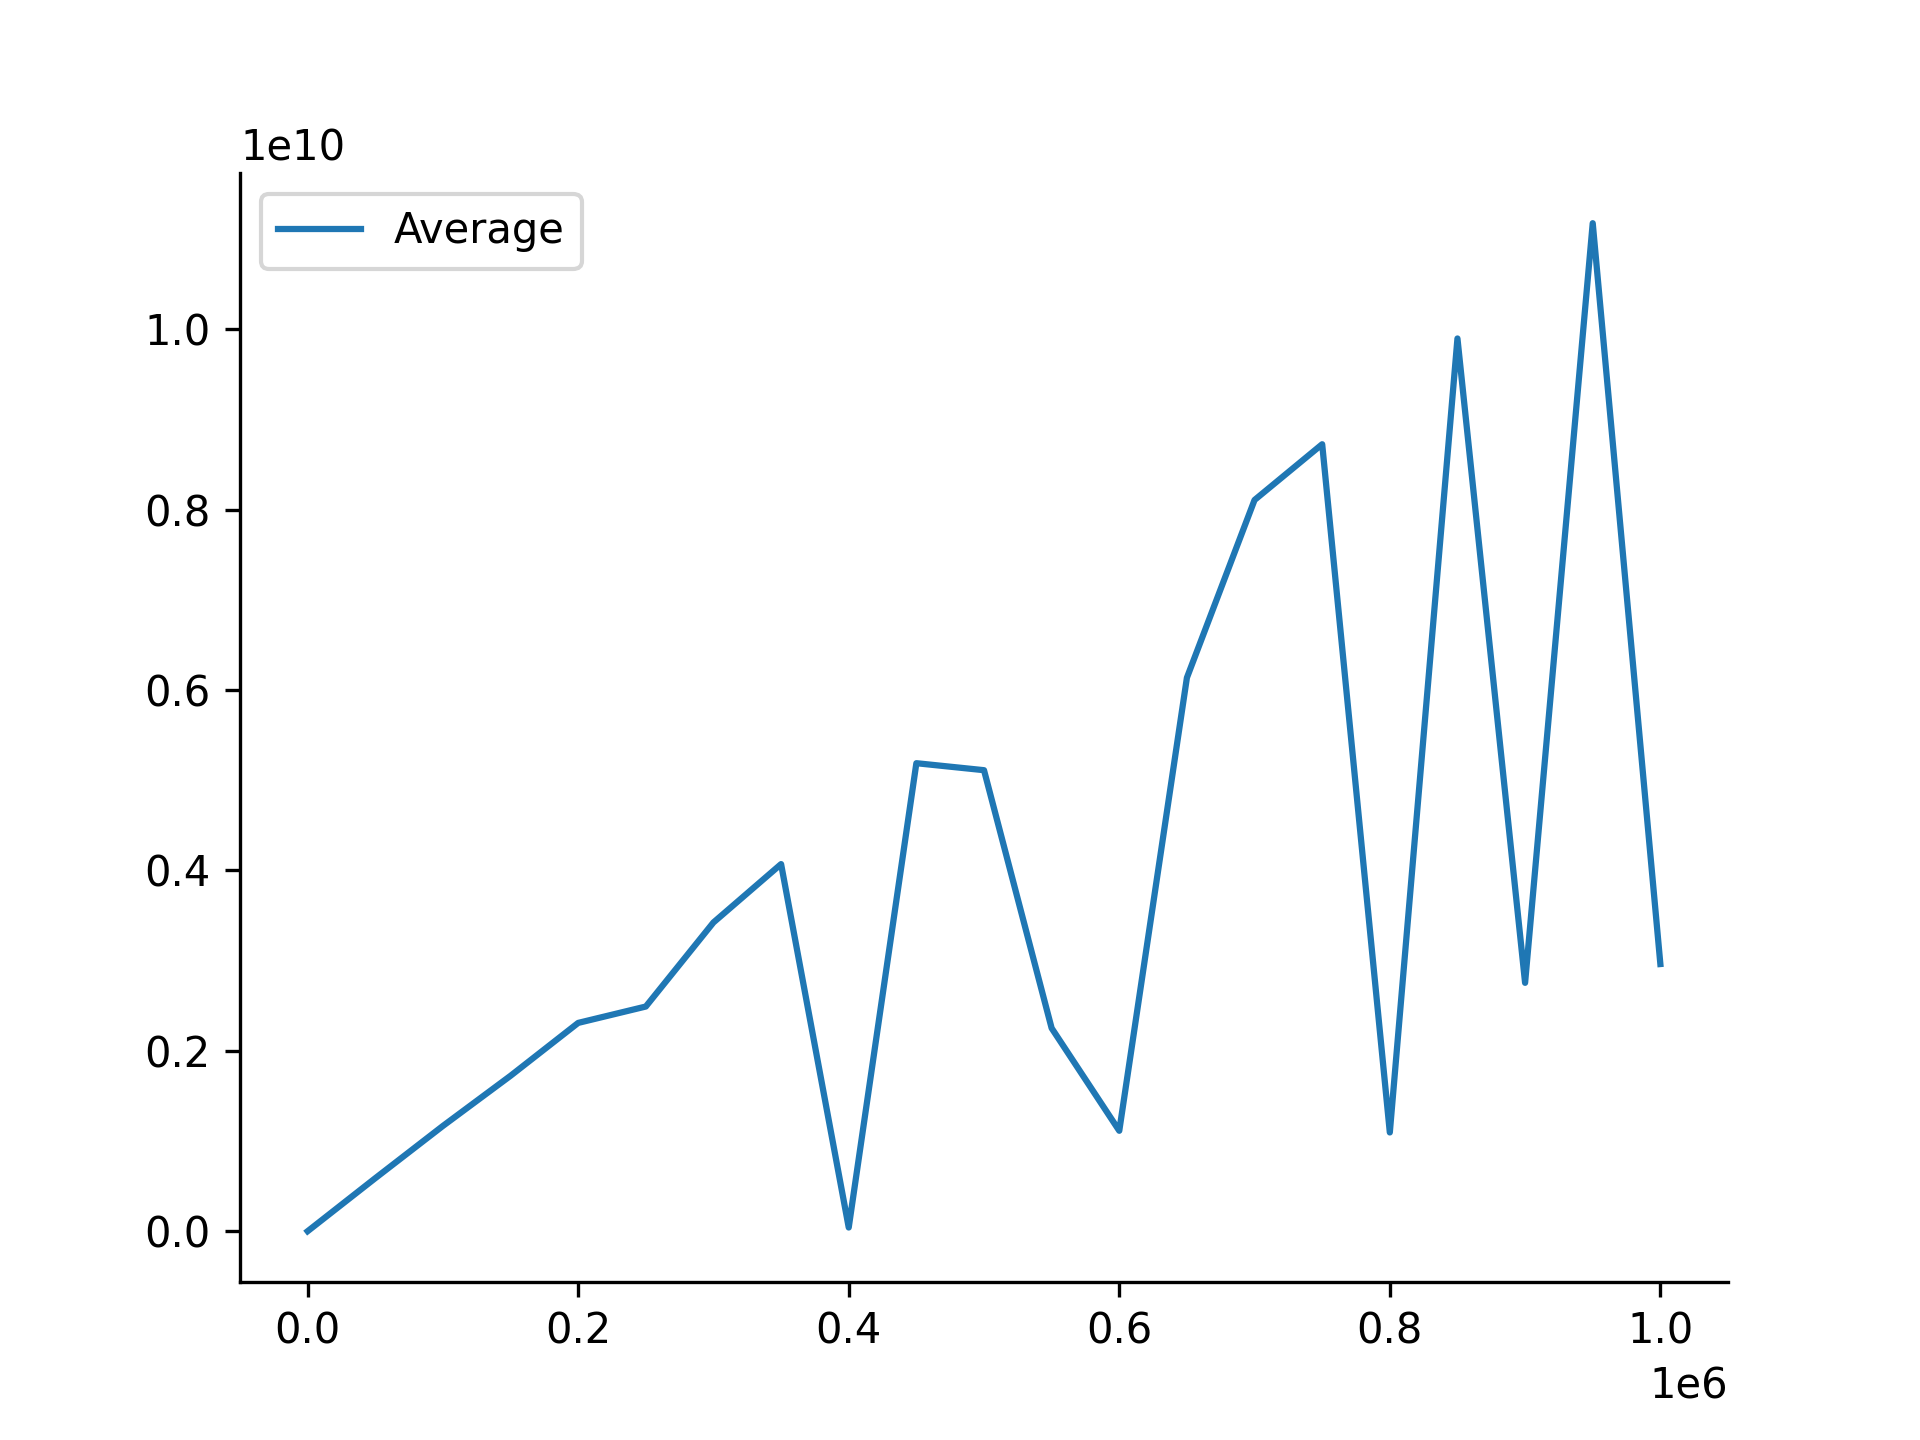
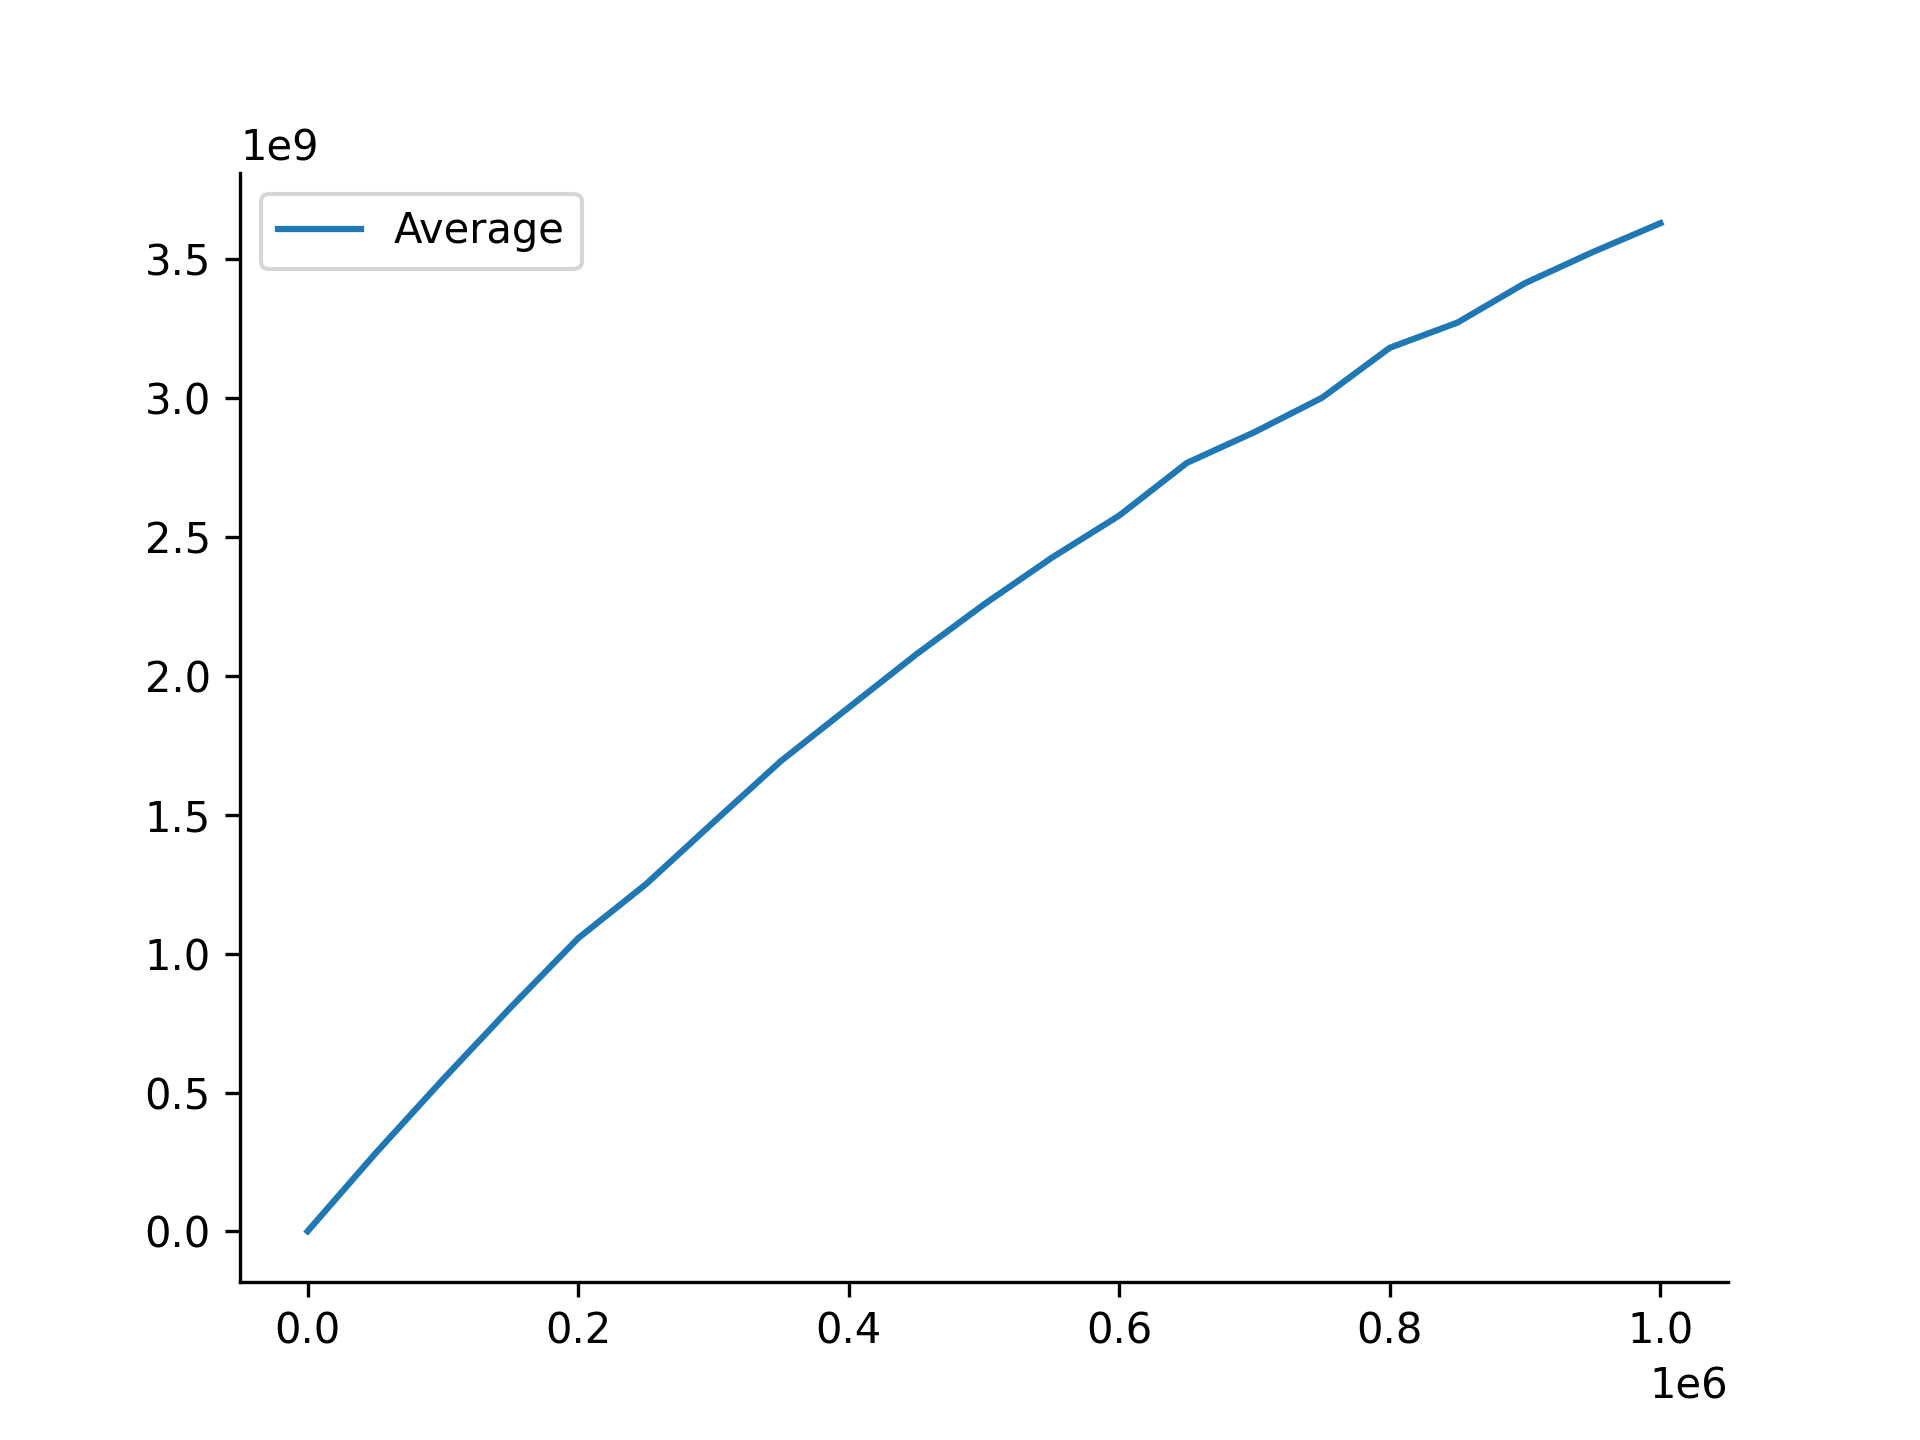
frequency search random fix

diff --git a/frequency-search.cpp b/frequency-search.cpp
@@ -13,51 +13,15 @@ unsigned linearSearch(unsigned search_for, unsigned array[], unsigned size) {
 }
 
 
-unsigned linearSearchA(unsigned search_for, unsigned array[], unsigned size) {
-    for (unsigned i = 0; i < size; ++i) {
-        if (array[i] == search_for) {
-            if (i != 0) {
-                std::swap(array[0], array[i]);
-            }
-            return i;
-        }
+unsigned nonuniformDistribution(std::default_random_engine &rng, unsigned minmax, unsigned maxmax, unsigned chance_percent) {
+    std::uniform_int_distribution<unsigned> uniform1(1, minmax);
+    std::uniform_int_distribution<unsigned> uniform2(1, maxmax);
+    std::uniform_int_distribution<unsigned> uniform0(1, 100);
+    if (uniform0(rng) > chance_percent) {
+        return uniform1(rng);
+    } else {
+        return uniform2(rng);
     }
-    return size;
-}
-
-
-unsigned linearSearchB(unsigned search_for, unsigned array[], unsigned size) {
-    for (unsigned i = 0; i < size; ++i) {
-        if (array[i] == search_for) {
-            if (i != 0) {
-                std::swap(array[i - 1], array[i]);
-            }
-            return i;
-        }
-    }
-    return size;
-}
-
-
-unsigned linearSearchC(unsigned search_for, unsigned array[], unsigned size, unsigned count[]) {
-    for (unsigned i = 0; i < size; ++i) {
-        if (array[i] == search_for) {
-            if (i != 0) {
-                if (count[i] > count[i - 1]) {
-                    std::swap(array[i - 1], array[i]);
-                }
-            }
-            return i;
-        }
-    }
-    return size;
-}
-
-
-unsigned nonuniformDistribution(unsigned max, unsigned repeat_percent, std::uniform_int_distribution<unsigned> uniform, std::default_random_engine rng) {
-    unsigned x = uniform(rng);
-    if (x > max * repeat_percent / 100) x = max * repeat_percent / 100;
-    return x;
 }
 
 
@@ -68,11 +32,11 @@ unsigned ran[500'000];
 
 
 int main() {
-    unsigned repeat = 20'000;
+    unsigned repeat = 10'000;
 
-    unsigned seed = 1204;
+    unsigned seed = 1001;
     unsigned max_value = array_size;
-    unsigned repeat_percent = 20;
+    unsigned chance_percent = 20;
     std::default_random_engine rng(seed);
     std::uniform_int_distribution<unsigned> uniform(1, max_value);
 
@@ -82,11 +46,12 @@ int main() {
 
     unsigned x;
     unsigned long long time;
+    unsigned i;
     std::ofstream fout;
 
     unsigned dn = (array_size - 100) / 20;
 
-    /* fout.open("./data/freq-linear-uniform-0.csv");
+    fout.open("./data/freq-linear-uniform-0.csv");
     fout.clear();
     fout << "n,std\n";
 
@@ -187,7 +152,7 @@ int main() {
     std::cout << "Uniform C done." << std::endl; */
 
 
-    fout.open("./data/freq-linear-binomial-0.csv");
+    /*fout.open("./data/freq-linear-binomial-0.csv");
     fout.clear();
     fout << "n,std\n";
 
@@ -195,19 +160,17 @@ int main() {
         for (unsigned cnt = 0; cnt < n; ++cnt) {
             a[cnt] = uniform(rng);
         }
+        //std::shuffle(&a[0], &a[n], rng);
         time = 0;
-        for (unsigned cnt = 0; cnt < repeat; ++cnt) {
-            ran[cnt] = nonuniformDistribution(max_value, repeat_percent, uniform, rng);
-        }
-        begin = std::chrono::steady_clock::now();
         for (unsigned cnt = 0; cnt != repeat; ++cnt) {
-            
-            linearSearch(ran[cnt], a, n);
-            
+            x = nonuniformDistribution(rng, 100'000, 1'000'000, chance_percent);
+            begin = std::chrono::steady_clock::now();
+            i = linearSearch(x, a, n);
+            end = std::chrono::steady_clock::now();
+            time_span = std::chrono::duration_cast<std::chrono::nanoseconds>(end - begin);
+            time += time_span.count();
         }
-        end = std::chrono::steady_clock::now();
-        time_span = std::chrono::duration_cast<std::chrono::nanoseconds>(end - begin);
-        time += time_span.count();
+        
         fout << n << "," << time << "\n";
         std::cout << n << std::endl;
     }
@@ -223,19 +186,20 @@ int main() {
         for (unsigned cnt = 0; cnt < n; ++cnt) {
             a[cnt] = uniform(rng);
         }
+        //std::shuffle(&a[0], &a[n], rng);
         time = 0;
-        for (unsigned cnt = 0; cnt < repeat; ++cnt) {
-            ran[cnt] = nonuniformDistribution(max_value, repeat_percent, uniform, rng);
-        }
-        begin = std::chrono::steady_clock::now();
         for (unsigned cnt = 0; cnt != repeat; ++cnt) {
-            
-            linearSearchA(ran[cnt], a, n);
-            
+            x = nonuniformDistribution(rng, 100'000, 1'000'000, chance_percent);
+            begin = std::chrono::steady_clock::now();
+            i = linearSearch(x, a, n);
+            end = std::chrono::steady_clock::now();
+            time_span = std::chrono::duration_cast<std::chrono::nanoseconds>(end - begin);
+            time += time_span.count();
+            if (i != 0) {
+                std::swap(a[0], a[i]);
+            }
         }
-        end = std::chrono::steady_clock::now();
-        time_span = std::chrono::duration_cast<std::chrono::nanoseconds>(end - begin);
-        time += time_span.count();
+        
         fout << n << "," << time << "\n";
         std::cout << n << std::endl;
     }
@@ -251,19 +215,20 @@ int main() {
         for (unsigned cnt = 0; cnt < n; ++cnt) {
             a[cnt] = uniform(rng);
         }
+        //std::shuffle(&a[0], &a[n], rng);
         time = 0;
-        for (unsigned cnt = 0; cnt < repeat; ++cnt) {
-            ran[cnt] = nonuniformDistribution(max_value, repeat_percent, uniform, rng);
-        }
-        begin = std::chrono::steady_clock::now();
         for (unsigned cnt = 0; cnt != repeat; ++cnt) {
-            
-            linearSearchB(ran[cnt], a, n);
-            
+            x = nonuniformDistribution(rng, 100'000, 1'000'000, chance_percent);
+            begin = std::chrono::steady_clock::now();
+            i = linearSearch(x, a, n);
+            end = std::chrono::steady_clock::now();
+            time_span = std::chrono::duration_cast<std::chrono::nanoseconds>(end - begin);
+            time += time_span.count();
+            if (i != 0) {
+                std::swap(a[i - 1], a[i]);
+            }
         }
-        end = std::chrono::steady_clock::now();
-        time_span = std::chrono::duration_cast<std::chrono::nanoseconds>(end - begin);
-        time += time_span.count();
+        
         fout << n << "," << time << "\n";
         std::cout << n << std::endl;
     }
@@ -277,28 +242,32 @@ int main() {
 
     for (unsigned n = 100; n <= array_size; n += dn) {
         for (unsigned cnt = 0; cnt < n; ++cnt) {
-            a[cnt] = uniform(rng);
-        }
-        for (unsigned cnt = 0; cnt < n; ++cnt) {
             count[cnt] = 0;
         }
+        for (unsigned cnt = 0; cnt < n; ++cnt) {
+            a[cnt] = uniform(rng);
+        }
+        //std::shuffle(&a[0], &a[n], rng);
         time = 0;
-        for (unsigned cnt = 0; cnt < repeat; ++cnt) {
-            ran[cnt] = nonuniformDistribution(max_value, repeat_percent, uniform, rng);
-        }
-        begin = std::chrono::steady_clock::now();
         for (unsigned cnt = 0; cnt != repeat; ++cnt) {
-            
-            linearSearchC(ran[cnt], a, n, count);
-            
+            x = nonuniformDistribution(rng, 100'000, 1'000'000, chance_percent);
+            begin = std::chrono::steady_clock::now();
+            i = linearSearch(x, a, n);
+            end = std::chrono::steady_clock::now();
+            time_span = std::chrono::duration_cast<std::chrono::nanoseconds>(end - begin);
+            time += time_span.count();
+            ++count[i];
+            if (i != 0) {
+                if (count[i] > count[i - 1]) {
+                    std::swap(a[i - 1], a[i]);
+                }
+            }
         }
-        end = std::chrono::steady_clock::now();
-        time_span = std::chrono::duration_cast<std::chrono::nanoseconds>(end - begin);
-        time += time_span.count();
+        
         fout << n << "," << time << "\n";
         std::cout << n << std::endl;
     }
     fout.close();
     
-    std::cout << "Nonuniform C done." << std::endl;
+    std::cout << "Nonuniform C done." << std::endl;*/
 }

diff --git a/summ-search.cpp b/summ-search.cpp
@@ -61,7 +61,7 @@ int main() {
 
     std::ofstream fout;
 
-    /* fout.open("./data/fa-linear.csv");
+    fout.open("./data/fa-linear.csv");
     fout.clear();
     fout << "n,std,worst\n";
 
@@ -89,7 +89,7 @@ int main() {
         fout << time << '\n';
         std::cout << n << std::endl;
     }
-    fout.close(); */
+    fout.close();
     
     std::cout << "Linear done." << std::endl;
 
@@ -105,8 +105,9 @@ int main() {
             for (unsigned i = 0; i < 30; ++i) squareFindAddendums(x, a, n, res);
             end = std::chrono::steady_clock::now();
             time_span = std::chrono::duration_cast<std::chrono::milliseconds>(end - begin);
+            time += time_span.count();
         }
-        fout << n << "," << (double)time_span.count() / 3000. << ",";
+        fout << n << "," << time / 3000 << ",";
 
         x = 4'000'000;
         begin = std::chrono::steady_clock::now();
